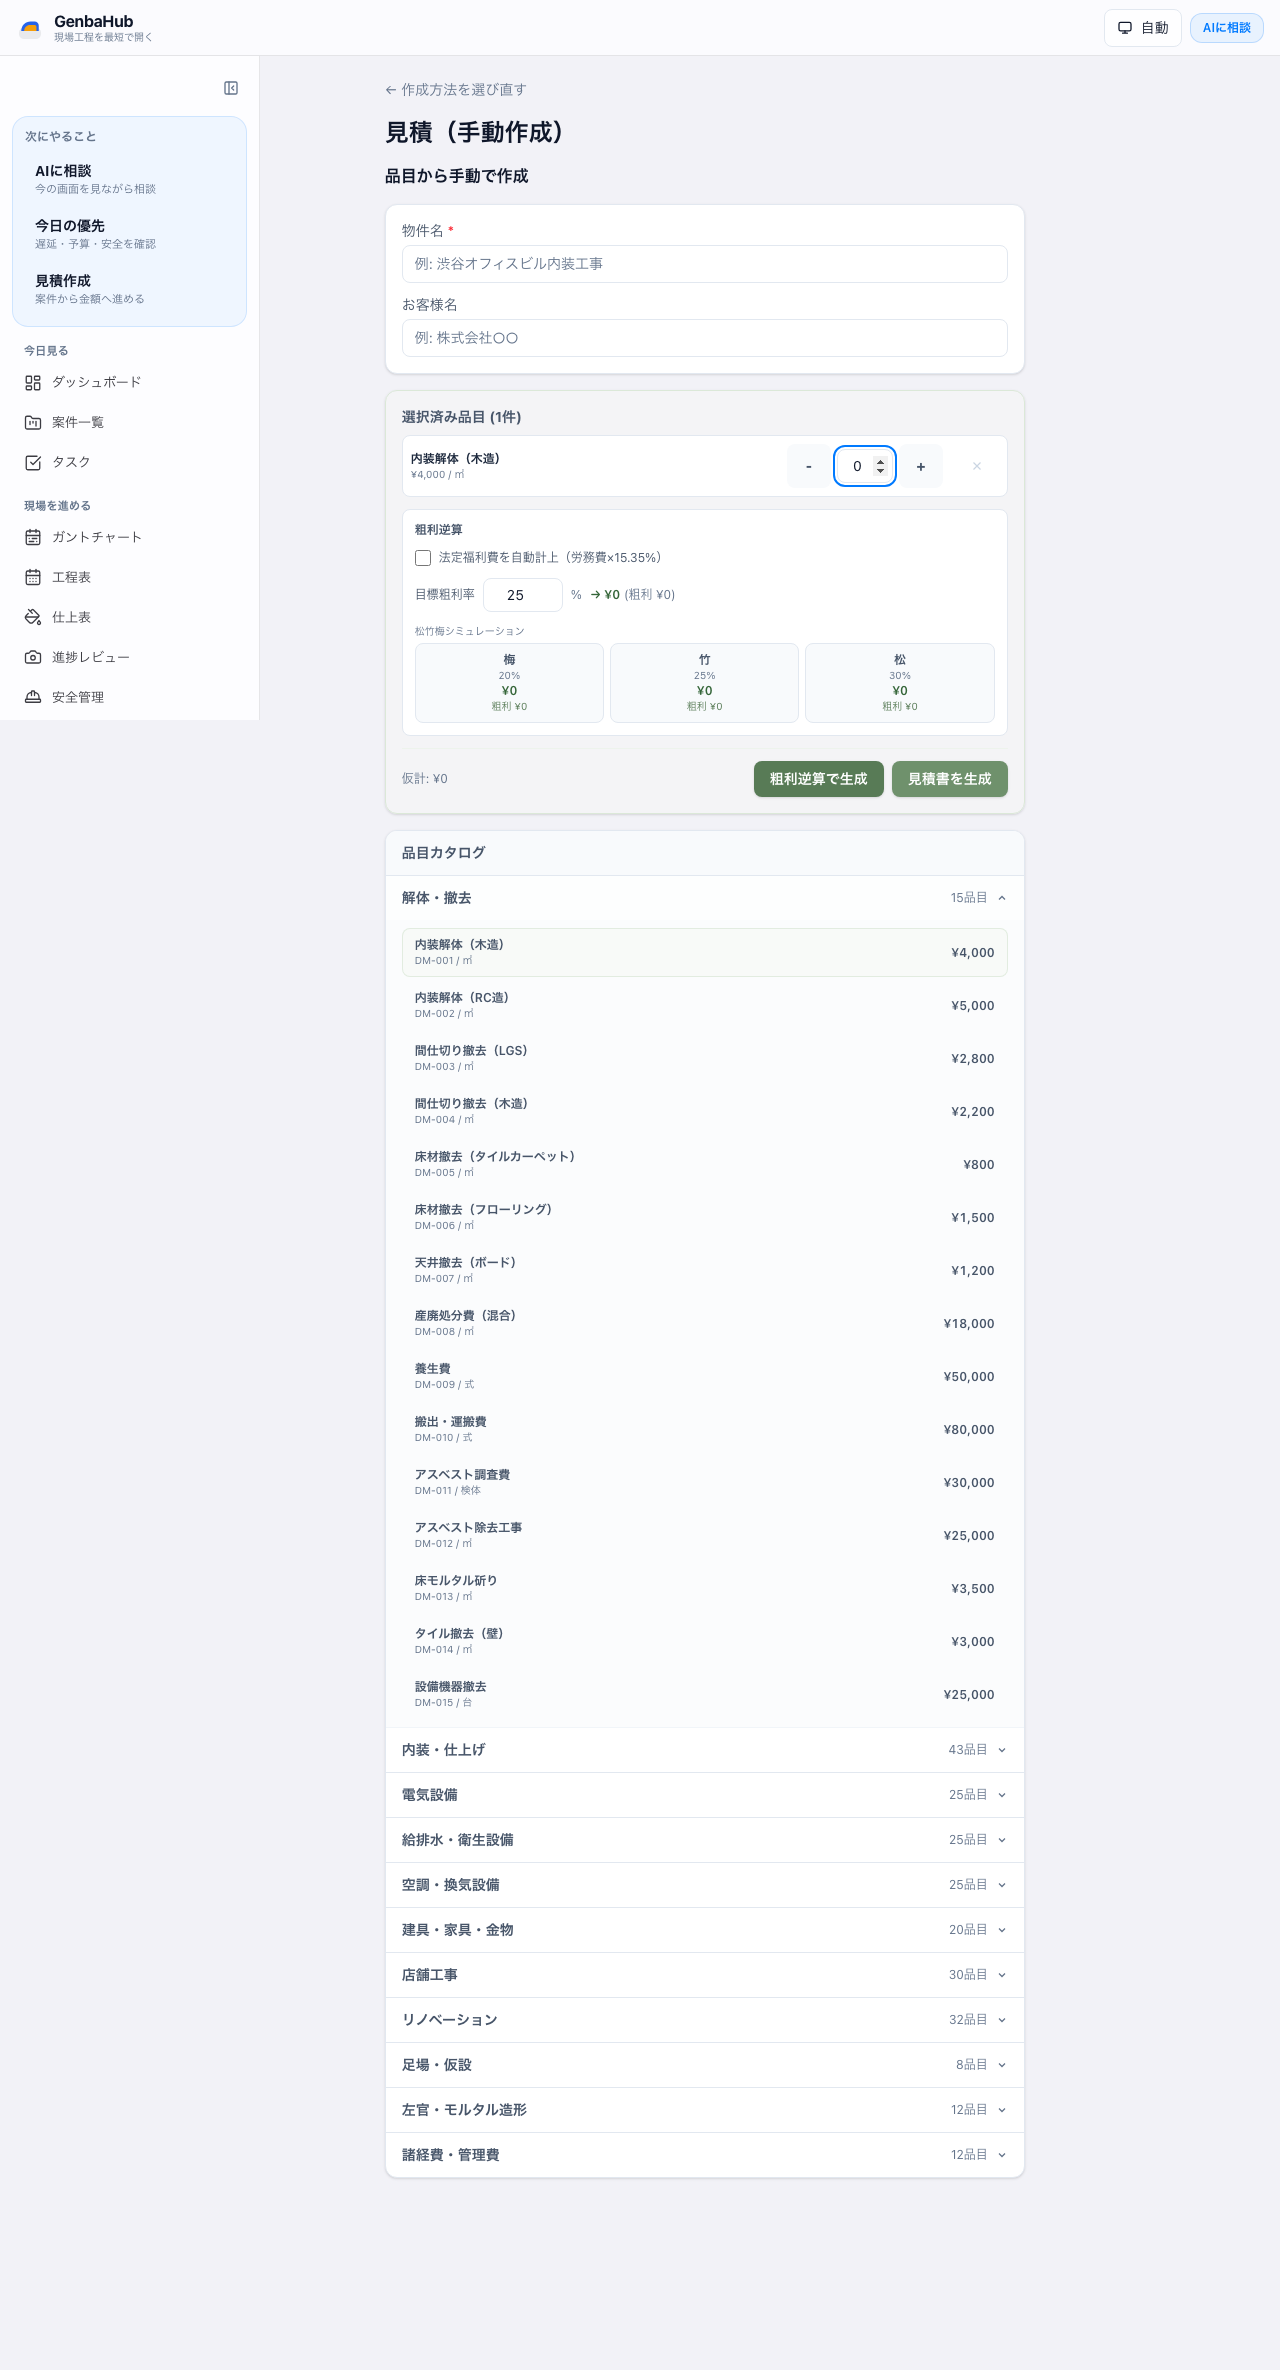
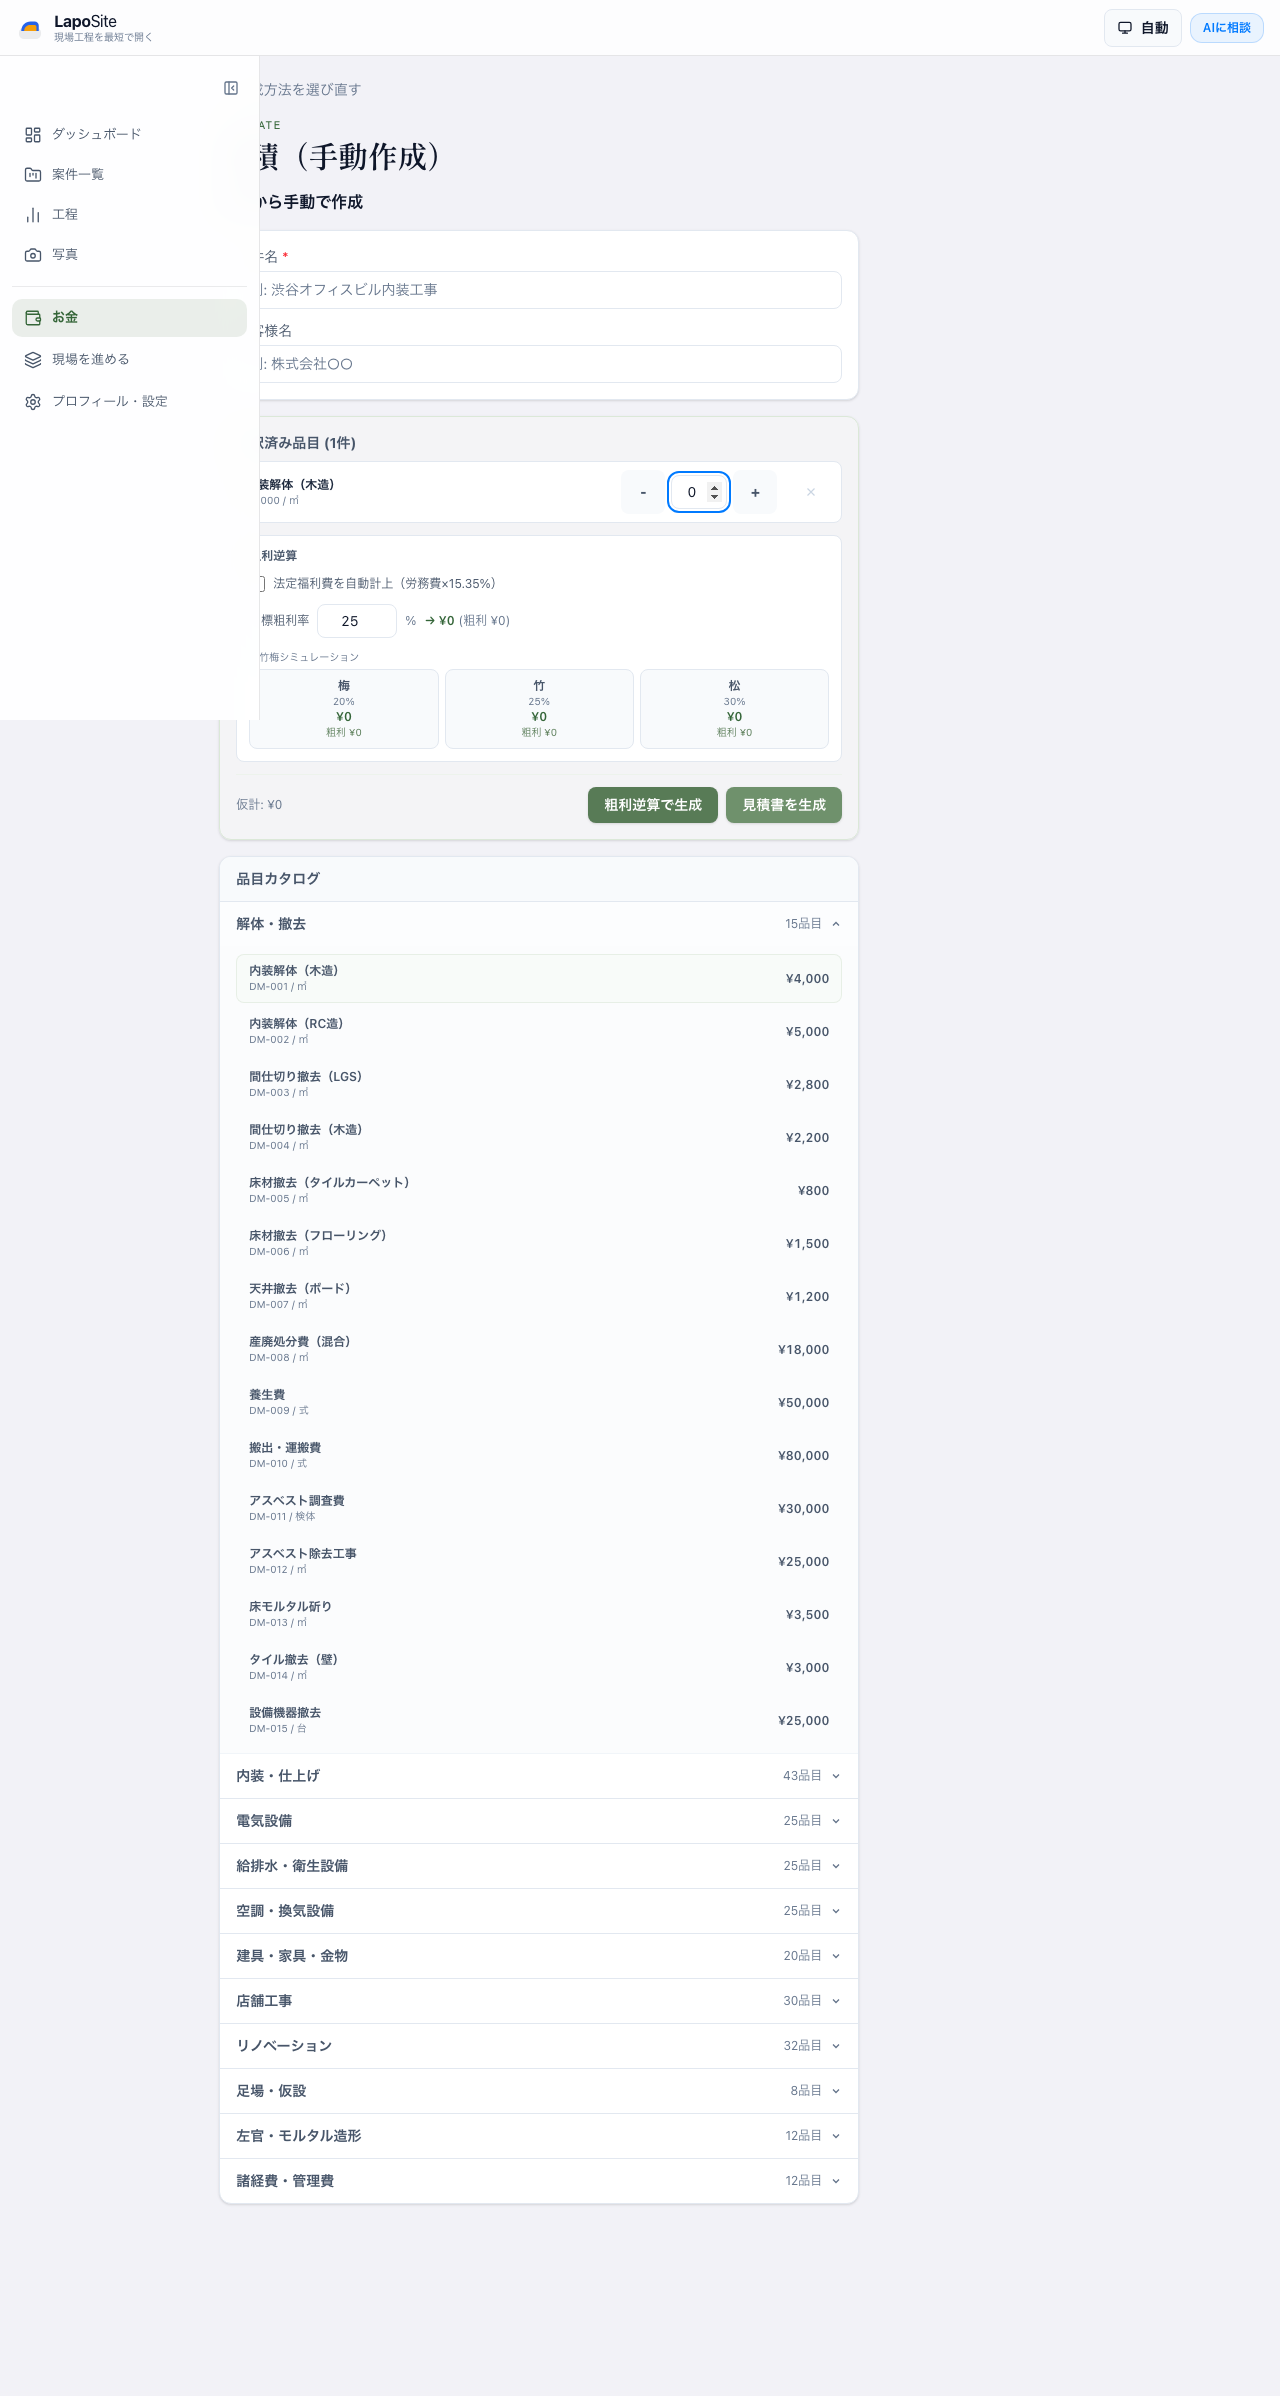
chore(ui): checkpoint design/ui-facelift-20260728 (editorial typography pass)
見出し=Shippori Mincho B1、ラベル=Zen Kaku Gothic New、KPI数値=tabular-nums等幅の
エディトリアル・タイポグラフィをTodayDashboard/DashboardCard/GreetingHeader/Estimate
へ適用済みの状態をcommit。WCAG AAコントラスト実測済み(brand-700採用箇所はコメント記載)。
本セッションで375px実機確認(Playwright)し崩れ・console errorなしを確認。
未push(dirty差分の整理commitのみ、pushはブリーフで禁止)。

diff --git a/src/pages/TodayDashboardPage.tsx b/src/pages/TodayDashboardPage.tsx
@@ -951,7 +951,7 @@ function TodayDashboardPageContent() {
   }
 
   return (
-    <div className="mx-auto max-w-[1320px] space-y-4 px-4 pb-8">
+    <div className="mx-auto max-w-[1320px] space-y-7 px-4 pb-8">
       {/* Error banner */}
       {loadError && (
         <div role="alert" className="flex items-start gap-2 rounded-lg bg-red-50 border border-red-200 px-4 py-3 text-sm text-red-700">
@@ -1105,17 +1105,17 @@ function TodayDashboardPageContent() {
       </div>
 
       {/* Date Header */}
-      <div className="rounded-2xl bg-brand-800 px-5 py-5 text-white shadow-sm">
+      <div className="genba-flat-card rounded-2xl bg-brand-800 px-6 py-6 text-white sm:px-8 sm:py-7">
         <div className="flex items-center justify-between">
           <div>
-            <p className="text-xs font-semibold tracking-widest text-brand-300 uppercase">
+            <p className="eyebrow-label text-xs text-brand-300 uppercase">
               本日の概要
             </p>
-            <p className="mt-1 text-xl font-bold">{formatDateJP(today)}</p>
+            <p className="hero-heading mt-1.5 text-2xl text-white sm:text-3xl">{formatDateJP(today)}</p>
           </div>
         </div>
 
-        <div className="mt-4 grid gap-2 sm:grid-cols-3">
+        <div className="mt-5 grid gap-2 sm:grid-cols-3">
           {siteForecasts.map((site) => {
             if (!site.hasLocation) {
               // 座標未設定案件はフォールバック座標の予報を実予報のように見せない
@@ -1690,9 +1690,9 @@ function StatCard({
   bgColor: string;
 }) {
   return (
-    <div className={`rounded-xl ${bgColor} p-3 text-center shadow-sm border border-slate-100`}>
-      <p className={`text-xl font-bold tabular-nums ${color}`}>{value}</p>
-      <p className="text-[10px] font-semibold text-slate-500 uppercase tracking-wider">{label}</p>
+    <div className={`genba-flat-card rounded-xl ${bgColor} p-4 text-center border border-slate-100`}>
+      <p className={`figure-hero text-2xl ${color}`}>{value}</p>
+      <p className="eyebrow-label mt-0.5 text-[10px] text-slate-500 uppercase">{label}</p>
     </div>
   );
 }
@@ -1707,9 +1707,9 @@ function DashboardSummaryCard({
   detail: string;
 }) {
   return (
-    <div className="rounded-xl border border-slate-200 bg-slate-50/70 p-3">
-      <p className="text-xs font-semibold tracking-[0.18em] text-slate-500">{label}</p>
-      <p className="mt-1 text-base font-bold text-slate-900">{value}</p>
+    <div className="rounded-xl border border-slate-200 bg-slate-50/70 p-4">
+      <p className="eyebrow-label text-xs text-slate-500">{label}</p>
+      <p className="figure-hero mt-1 text-base text-slate-900">{value}</p>
       <p className="mt-2 text-xs leading-5 text-slate-600">{detail}</p>
     </div>
   );

diff --git a/src/index.css b/src/index.css
@@ -25,6 +25,50 @@
   --color-sys-separator: rgba(60,60,67,0.12);
 }
 
+/* ─── Design facelift 2026-07-28 (branch design/ui-facelift-20260728) ───
+   Editorial typography pass, matched to laporta-hp /kaigyo-onestop LP:
+   見出し = Shippori Mincho B1 (editorial serif), ラベル = Zen Kaku Gothic New,
+   本文/UI = 既存の -apple-system スタック（変更しない・回帰リスク回避）。
+   数値(KPI・金額)は tabular-nums + 等幅で「読める」データ表示にする。
+   スコープ: 主要ページ見出し(h1)とダッシュボード/見積のKPI数値のみ。
+   本文フォントは意図的に据え置き — アプリ全体の行送り・折返しへの影響を避ける。 */
+:root {
+  --font-heading: "Shippori Mincho B1", "Hiragino Mincho ProN", serif;
+  --font-label: "Zen Kaku Gothic New", -apple-system, "Hiragino Kaku Gothic ProN", sans-serif;
+  --font-figure: ui-monospace, "SF Mono", "Geist Mono", Menlo, monospace;
+}
+
+/* 一目でわかる主見出し。ページタイトル/案件名など main 直下の h1 のみに適用する
+   (ナビ・カード内の小見出しはこれまで通り本文フォント=情報密度を保つ)。 */
+.hero-heading {
+  font-family: var(--font-heading);
+  font-weight: 600;
+  letter-spacing: -0.01em;
+  line-height: 1.25;
+}
+
+/* KPI・金額など「数字が主役」の要素。全角崩れ防止に tabular-nums を必須にする。 */
+.figure-hero {
+  font-family: var(--font-figure);
+  font-variant-numeric: tabular-nums;
+  font-feature-settings: "tnum" 1;
+  letter-spacing: -0.01em;
+}
+
+/* セクション見出し上の小さなラベル（EYEBROW）。控えめだが編集的な質感を出す。 */
+.eyebrow-label {
+  font-family: var(--font-label);
+  font-weight: 500;
+  letter-spacing: 0.14em;
+}
+
+/* カードの影は「ほぼ無い」まで削る（genbahub-ui憲法: shadow-md/lg/xl禁止）。
+   既存の .ios-card / shadow-sm ユーティリティより一段薄い候補として用意し、
+   ダッシュボード/案件詳細/見積のヒーロー周りだけに適用する。 */
+.genba-flat-card {
+  box-shadow: 0 1px 2px rgba(0, 0, 0, 0.03);
+}
+
 :root,
 :root[data-theme="light"],
 :root[data-theme="system"] {

diff --git a/src/pages/EstimatePage.tsx b/src/pages/EstimatePage.tsx
@@ -970,9 +970,9 @@ function EstimatePageContent() {
               <span>消費税 ({(estimate.taxRate * 100).toFixed(0)}%)</span>
               <span className="tabular-nums">¥{estimate.tax.toLocaleString("ja-JP")}</span>
             </div>
-            <div className="flex justify-between pt-2 border-t border-slate-200 text-lg font-bold text-slate-900">
-              <span>合計</span>
-              <span className="tabular-nums text-brand-700">
+            <div className="mt-2 flex items-center justify-between rounded-xl bg-brand-50 px-4 py-3 text-slate-900">
+              <span className="eyebrow-label text-xs text-brand-700 uppercase">合計</span>
+              <span className="figure-hero text-2xl font-bold text-brand-800 sm:text-[28px]">
                 ¥{estimate.total.toLocaleString("ja-JP")}
               </span>
             </div>
@@ -1152,7 +1152,11 @@ function EstimatePageContent() {
       </button>
 
       {/* Page heading */}
-      <h1 className="text-2xl font-bold text-slate-900">見積（手動作成）</h1>
+      <div>
+        {/* brand-700: brand-600 measures under WCAG AA against white here (2026-07-28 contrast pass) */}
+        <p className="eyebrow-label text-[11px] text-brand-700 uppercase">Estimate</p>
+        <h1 className="hero-heading mt-1 text-[26px] text-slate-900 sm:text-3xl">見積（手動作成）</h1>
+      </div>
 
       <h2 className="text-base font-semibold text-slate-900">品目から手動で作成</h2>
 

diff --git a/src/components/GreetingHeader.tsx b/src/components/GreetingHeader.tsx
@@ -42,21 +42,21 @@ export function GreetingHeader({
         background: "linear-gradient(135deg, var(--app-bg, #F8F4ED), var(--app-card-muted, #F0EBE0))",
         border: "1px solid var(--app-border, #E5DDD0)",
       }}
-      className="min-w-[280px] rounded-2xl px-5 py-5 shadow-sm sm:px-6"
+      className="genba-flat-card min-w-[280px] rounded-2xl px-6 py-7 sm:px-8 sm:py-8"
     >
+      {/* brand-700: brand-500 measured 3.17:1 against this card's light gradient bg, below WCAG AA (2026-07-28 contrast pass) */}
+      <p className="eyebrow-label text-[11px] uppercase text-brand-700">今日の現場</p>
       <p
-        className="font-bold text-brand-800"
+        className="hero-heading mt-1.5 text-brand-900"
         style={{
-          fontSize: "clamp(22px, 6vw, 26px)",
-          lineHeight: 1.3,
-          fontFamily: "var(--font-sans, sans-serif)",
+          fontSize: "clamp(24px, 6vw, 32px)",
           writingMode: "horizontal-tb",
           wordBreak: "keep-all",
         }}
       >
         {userName ? `${greeting}、${userName}` : greeting}
       </p>
-      <p className="mt-1 text-sm text-brand-600" style={{ writingMode: "horizontal-tb", wordBreak: "keep-all" }}>
+      <p className="mt-2 text-sm text-brand-600" style={{ writingMode: "horizontal-tb", wordBreak: "keep-all" }}>
         {dateStr}
       </p>
     </motion.div>

diff --git a/src/components/DashboardCard.tsx b/src/components/DashboardCard.tsx
@@ -50,7 +50,7 @@ export function DashboardCard({
       onClick={onClick}
       whileHover={{ scale: 1.02 }}
       transition={{ type: "spring", stiffness: 300, damping: 20 }}
-      className="w-full rounded-[20px] bg-white p-4 text-left shadow-sm transition-shadow hover:shadow-md sm:p-6"
+      className="genba-flat-card w-full rounded-[20px] bg-white p-5 text-left transition-shadow hover:shadow-[0_4px_16px_rgba(0,0,0,0.05)] sm:p-6"
       style={{ border: "1px solid var(--app-border, #E5DDD0)" }}
     >
       <div className="flex items-start gap-3">
@@ -63,10 +63,10 @@ export function DashboardCard({
           </span>
         )}
         <div className="min-w-0 flex-1">
-          <p className="text-xs font-semibold uppercase text-brand-600 sm:tracking-widest">
+          <p className="eyebrow-label text-xs uppercase text-brand-600">
             {title}
           </p>
-          <p className={`mt-1 text-xl font-bold sm:text-2xl ${muted ? "text-slate-400" : "text-brand-900"}`}>
+          <p className={`figure-hero mt-1.5 text-2xl sm:text-[28px] ${muted ? "text-slate-400" : "text-brand-900"}`}>
             {value}
           </p>
           {subtext && (

diff --git a/index.html b/index.html
@@ -6,6 +6,14 @@
     <meta name="description" content="LapoSite — 建設・内装工事の現場管理をスマートに。工程表・タスク管理・見積作成・業者管理を一元化した建設会社向けプロジェクト管理ツール。" />
     <meta name="keywords" content="建設プロジェクト管理,工程表,現場管理,内装工事,見積書,施工管理,LapoSite" />
     <meta name="theme-color" content="#346538" />
+    <!-- Design facelift 2026-07-28 (branch design/ui-facelift-20260728): editorial heading face,
+         matches laporta-hp /kaigyo-onestop LP typography (見出し=Shippori Mincho B1). -->
+    <link rel="preconnect" href="https://fonts.googleapis.com" />
+    <link rel="preconnect" href="https://fonts.gstatic.com" crossorigin />
+    <link
+      href="https://fonts.googleapis.com/css2?family=Shippori+Mincho+B1:wght@600;700&family=Zen+Kaku+Gothic+New:wght@500;700&display=swap"
+      rel="stylesheet"
+    />
     <meta name="mobile-web-app-capable" content="yes" />
     <meta name="apple-mobile-web-app-capable" content="yes" />
     <meta name="apple-mobile-web-app-status-bar-style" content="default" />
